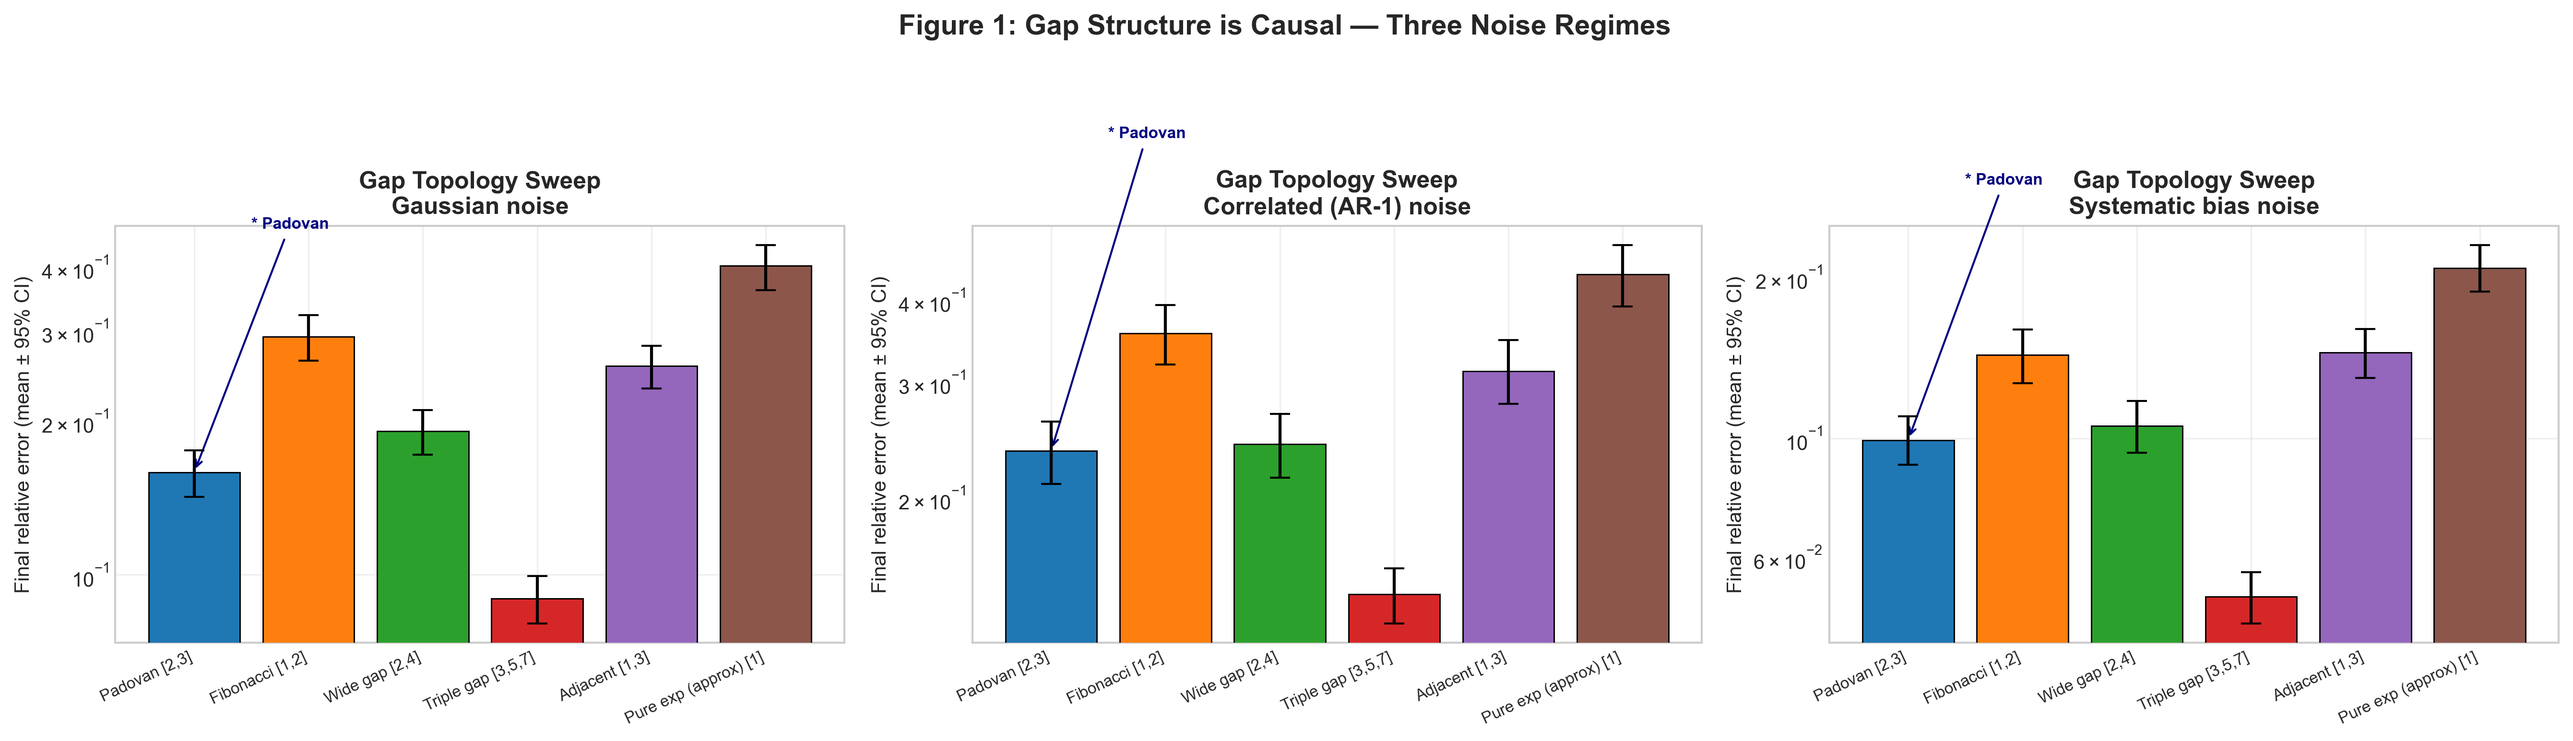
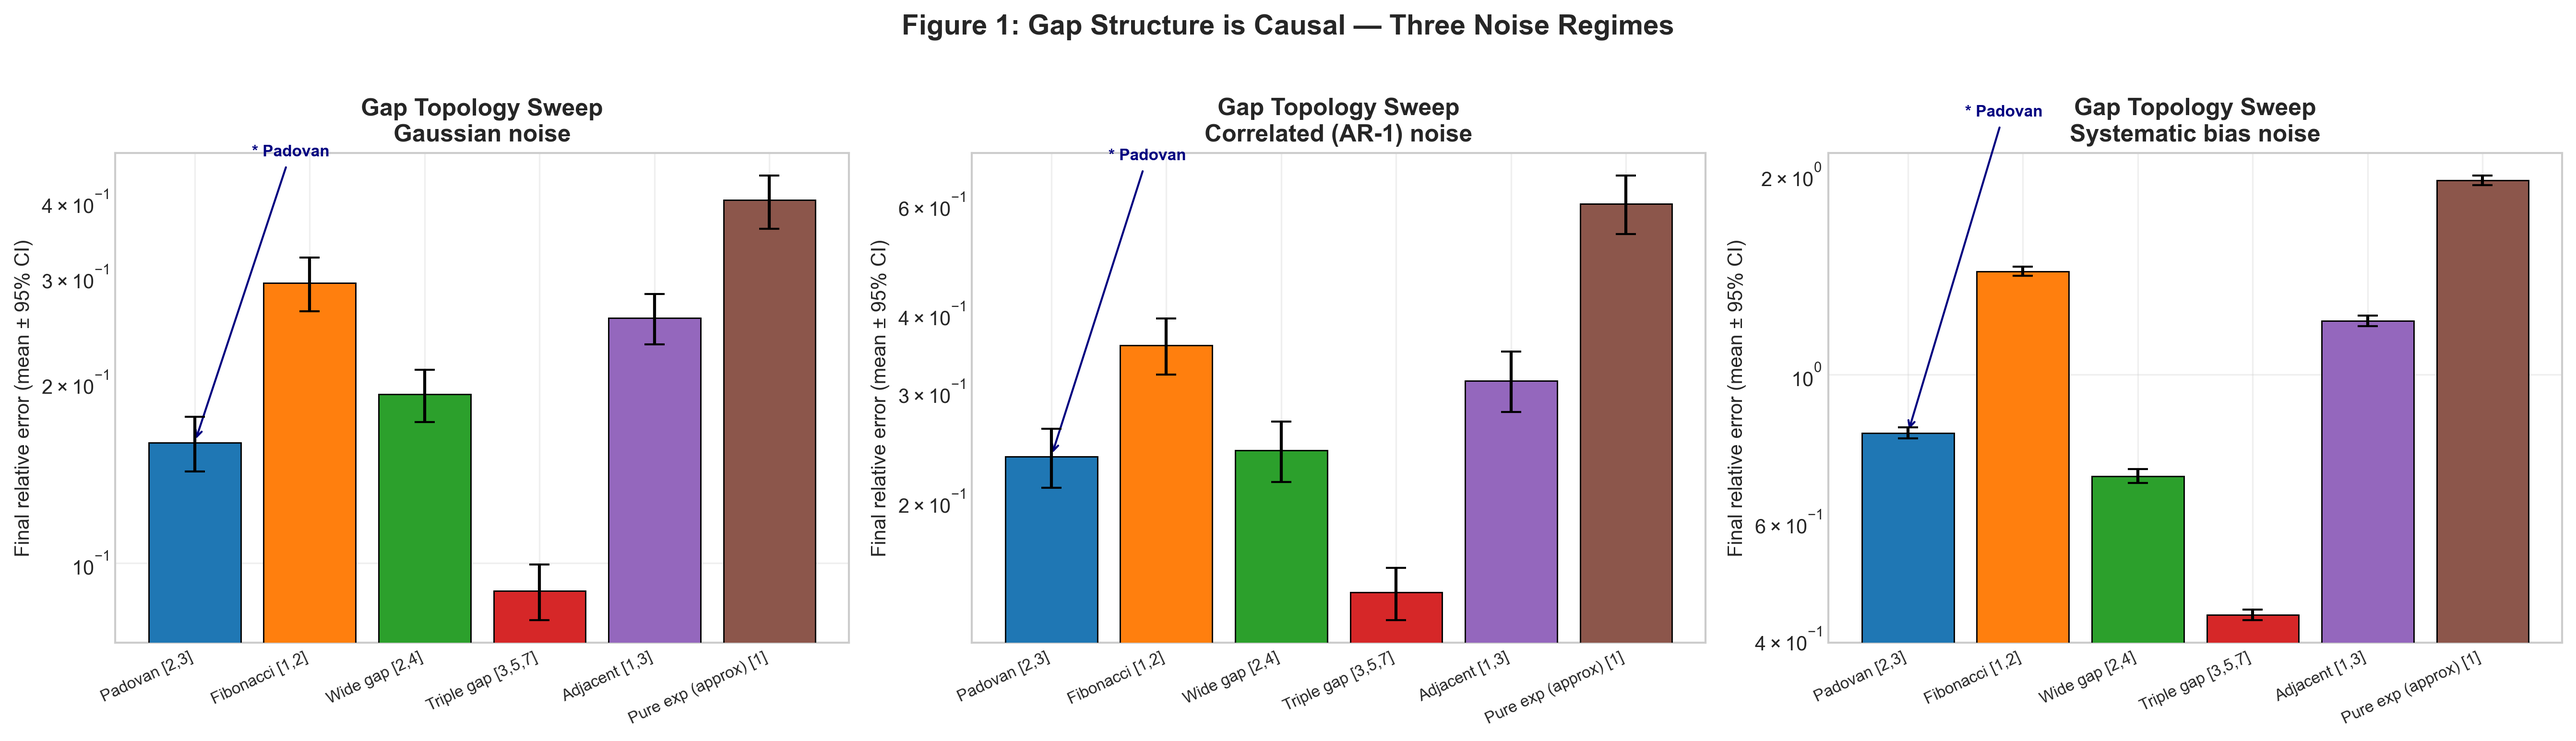
Refactor Padovan principle scripts and assets for enhanced modularity and precision
- Switched to `pathlib` for file-path handling, improving clarity and cross-platform compatibility.
- Enhanced systematic noise model with bias-proportional scaling and validation probes.
- Reorganized and expanded utilities: added multiplicative-chain baseline simulations and advanced two-parent crossover logic.
- Updated figures and JSON summaries with more accurate error analysis and causal insights.
- Refreshed `requirements.txt` with version-specific dependencies for reproducibility.
- Added DOI badges and links to README for improved traceability of Gaussian surface artifacts.

diff --git a/padovan-plastic-principle/padovan_plastic_principle_poc_02.py b/padovan-plastic-principle/padovan_plastic_principle_poc_02.py
@@ -19,13 +19,10 @@ Author: Fate + Claude (strengthened March 2026)
 
 import numpy as np
 import matplotlib.pyplot as plt
-import matplotlib.gridspec as gridspec
-import seaborn as sns
 from scipy import stats
 from datetime import datetime
-import os
-import textwrap
 import json
+from pathlib import Path
 
 # ─────────────────────────── CONFIG ───────────────────────────
 plt.style.use('seaborn-v0_8-whitegrid')
@@ -34,8 +31,9 @@ np.random.seed(42)
 N_STEPS   = 100
 NOISE_STD = 0.05
 N_TRIALS  = 200          # more trials → tighter CIs
-SAVE_DIR  = "plastic_whitepaper_assets_v2"
-os.makedirs(SAVE_DIR, exist_ok=True)
+SCRIPT_DIR = Path(__file__).resolve().parent
+SAVE_DIR  = SCRIPT_DIR / "plastic_whitepaper_assets_v2"
+SAVE_DIR.mkdir(parents=True, exist_ok=True)
 
 # Plastic constant ρ (real root of x³ − x − 1 = 0)
 _roots = np.roots([1, 0, -1, -1])
@@ -58,9 +56,11 @@ class NoiseModel:
         return float(rho * prev + np.random.normal(0, scale * np.sqrt(1 - rho**2)))
 
     @staticmethod
-    def systematic(scale, bias=0.02):
-        """Systematic bias — tool that consistently cuts short."""
-        return float(np.random.normal(bias * scale, scale * 0.5))
+    def systematic(ideal_value, noise_std, bias=0.02):
+        """Systematic bias relative to ideal step size, plus residual stochastic spread."""
+        mean = bias * ideal_value
+        sigma = 0.5 * noise_std * abs(ideal_value)
+        return float(np.random.normal(mean, sigma))
 
 
 def simulate_recurrence(recurrence_offsets, n_steps=N_STEPS, noise_std=NOISE_STD,
@@ -91,7 +91,7 @@ def simulate_recurrence(recurrence_offsets, n_steps=N_STEPS, noise_std=NOISE_STD
             noise = NoiseModel.correlated(scale, prev_noise)
             prev_noise = float(noise)
         elif noise_type == 'systematic':
-            noise = NoiseModel.systematic(scale)
+            noise = NoiseModel.systematic(ideal[i], noise_std=noise_std)
         else:
             raise ValueError(f"Unknown noise_type: {noise_type}")
 
@@ -107,6 +107,43 @@ def run_trials(recurrence_offsets, n_trials=N_TRIALS, noise_type='gaussian', **k
     finals = []
     for _ in range(n_trials):
         err = simulate_recurrence(recurrence_offsets, noise_type=noise_type, **kwargs)
+        finals.append(err[-1])
+    return np.array(finals)
+
+
+def simulate_exponential_chain(n_steps=N_STEPS, noise_std=NOISE_STD, rate=RHO,
+                               noise_type='gaussian', init=1.0):
+    """Multiplicative-chain baseline: x_n = rate * x_(n-1)."""
+    measured = np.zeros(n_steps)
+    ideal = np.zeros(n_steps)
+    measured[0] = ideal[0] = init
+
+    prev_noise = 0.0
+    for i in range(1, n_steps):
+        ideal[i] = ideal[i - 1] * rate
+        scale = noise_std * ideal[i]
+
+        if noise_type == 'gaussian':
+            noise = NoiseModel.gaussian(scale)
+        elif noise_type == 'correlated':
+            noise = NoiseModel.correlated(scale, prev_noise)
+            prev_noise = float(noise)
+        elif noise_type == 'systematic':
+            noise = NoiseModel.systematic(ideal[i], noise_std=noise_std)
+        else:
+            raise ValueError(f"Unknown noise_type: {noise_type}")
+
+        measured[i] = measured[i - 1] * rate + noise
+
+    safe_ideal = np.where(np.abs(ideal) > 1e-12, ideal, 1e-12)
+    return np.abs(measured / safe_ideal - 1)
+
+
+def run_trials_exponential_chain(n_trials=N_TRIALS, noise_type='gaussian', **kwargs):
+    """Run many trials for multiplicative-chain baseline; return final errors."""
+    finals = []
+    for _ in range(n_trials):
+        err = simulate_exponential_chain(noise_type=noise_type, **kwargs)
         finals.append(err[-1])
     return np.array(finals)
 
@@ -127,9 +164,8 @@ RECURRENCES = {
     "Wide gap [2,4]"        : [2, 4],   # larger gap
     "Triple gap [3,5,7]"    : [3, 5, 7],# multi-path
     "Adjacent [1,3]"        : [1, 3],   # partial gap
-    "Pure exp (approx) [1]" : [1],      # single-step (simulated as Fib[1,1])
+    "Pure exp (approx) [1]" : [1],      # handled as multiplicative chain
 }
-# For [1] we simulate as a simple ρ-multiplication chain separately
 COLORS = ['#1f77b4','#ff7f0e','#2ca02c','#d62728','#9467bd','#8c564b']
 
 # ─────────────────────────── FIGURE 1: CAUSAL ISOLATION ───────────────────────────
@@ -148,13 +184,14 @@ def figure_gap_topology():
     results_syst  = {}
 
     for name, offsets in RECURRENCES.items():
-        if offsets == [1]:   # pure exponential proxy
-            offsets_use = [1, 1]  # degenerate; will compound fastest
+        if offsets == [1]:
+            results_gauss[name] = run_trials_exponential_chain(noise_type='gaussian')
+            results_corr[name] = run_trials_exponential_chain(noise_type='correlated')
+            results_syst[name] = run_trials_exponential_chain(noise_type='systematic')
         else:
-            offsets_use = offsets
-        results_gauss[name] = run_trials(offsets_use, noise_type='gaussian')
-        results_corr[name]  = run_trials(offsets_use, noise_type='correlated')
-        results_syst[name]  = run_trials(offsets_use, noise_type='systematic')
+            results_gauss[name] = run_trials(offsets, noise_type='gaussian')
+            results_corr[name]  = run_trials(offsets, noise_type='correlated')
+            results_syst[name]  = run_trials(offsets, noise_type='systematic')
 
     for ax, results, title in zip(
             axes,
@@ -166,8 +203,8 @@ def figure_gap_topology():
         cis    = [bootstrap_ci(v) for v in results.values()]
         yerr   = np.array([[m - lo, hi - m] for m, (lo, hi) in zip(means, cis)]).T
 
-        bars = ax.bar(range(len(labels)), means, color=COLORS[:len(labels)],
-                      edgecolor='black', linewidth=0.7, zorder=3)
+        ax.bar(range(len(labels)), means, color=COLORS[:len(labels)],
+               edgecolor='black', linewidth=0.7, zorder=3)
         ax.errorbar(range(len(labels)), means, yerr=yerr,
                     fmt='none', color='black', capsize=5, linewidth=1.5, zorder=4)
         ax.set_xticks(range(len(labels)))
@@ -187,7 +224,7 @@ def figure_gap_topology():
     plt.suptitle('Figure 1: Gap Structure is Causal — Three Noise Regimes',
                  fontsize=14, fontweight='bold', y=1.02)
     plt.tight_layout()
-    plt.savefig(f'{SAVE_DIR}/figure_1_causal_isolation.png', dpi=300, bbox_inches='tight')
+    plt.savefig(SAVE_DIR / "figure_1_causal_isolation.png", dpi=300, bbox_inches='tight')
     plt.close()
     print("    ✓ Figure 1 saved")
 
@@ -220,10 +257,9 @@ def figure_noise_regimes():
 
         for (name, offsets), color in zip(RECURRENCES.items(), COLORS):
             if offsets == [1]:
-                offsets_use = [1, 1]
+                err = simulate_exponential_chain(noise_type=noise_type)
             else:
-                offsets_use = offsets
-            err = simulate_recurrence(offsets_use, noise_type=noise_type)
+                err = simulate_recurrence(offsets, noise_type=noise_type)
             ax.plot(err, label=name, color=color,
                     linewidth=2.5 if 'Padovan' in name else 1.2,
                     alpha=1.0 if 'Padovan' in name else 0.65,
@@ -239,7 +275,7 @@ def figure_noise_regimes():
     plt.suptitle('Figure 2: Padovan Advantage Persists Across All Noise Regimes',
                  fontsize=14, fontweight='bold', y=1.02)
     plt.tight_layout()
-    plt.savefig(f'{SAVE_DIR}/figure_2_noise_regimes.png', dpi=300, bbox_inches='tight')
+    plt.savefig(SAVE_DIR / "figure_2_noise_regimes.png", dpi=300, bbox_inches='tight')
     plt.close()
     print("    ✓ Figure 2 saved")
 
@@ -267,13 +303,8 @@ def figure_eigenvalue_anatomy():
         for i in range(d - 1):
             M[i + 1, i] = 1.0
         for k in offsets:
-            M[0, k - 1] = 1.0  # actually: M[0, d-k] depending on convention
-        # Use characteristic polynomial approach: coefficients of x^d - sum(x^(d-k))
-        poly = np.zeros(d + 1)
-        poly[0] = 1
-        for k in offsets:
-            poly[d - k] -= 1
-        eigs = np.roots(poly)
+            M[0, k - 1] = 1.0
+        eigs = np.linalg.eigvals(M)
         ax.scatter(eigs.real, eigs.imag, color=color, s=80,
                    label=name, zorder=3, edgecolors='black', linewidths=0.5)
 
@@ -298,11 +329,12 @@ def figure_eigenvalue_anatomy():
         if offsets == [1]:
             continue
         d = max(offsets)
-        poly = np.zeros(d + 1)
-        poly[0] = 1
+        M = np.zeros((d, d))
+        for i in range(d - 1):
+            M[i + 1, i] = 1.0
         for k in offsets:
-            poly[d - k] -= 1
-        eigs = np.roots(poly)
+            M[0, k - 1] = 1.0
+        eigs = np.linalg.eigvals(M)
         # Damping = max |λ| among non-dominant eigenvalues
         mods = np.sort(np.abs(eigs))
         damping = mods[-2] if len(mods) >= 2 else mods[-1]
@@ -341,7 +373,7 @@ def figure_eigenvalue_anatomy():
     plt.suptitle('Figure 3: Eigenvalue Damping → Error Suppression (Causal Mechanism)',
                  fontsize=14, fontweight='bold', y=1.02)
     plt.tight_layout()
-    plt.savefig(f'{SAVE_DIR}/figure_3_eigenvalue_anatomy.png', dpi=300, bbox_inches='tight')
+    plt.savefig(SAVE_DIR / "figure_3_eigenvalue_anatomy.png", dpi=300, bbox_inches='tight')
     plt.close()
     print("    ✓ Figure 3 saved")
 
@@ -363,12 +395,11 @@ def figure_architectural_simulation():
         d = max(recurrence_offsets)
         for i in range(d):
             ideal[i] = measured[i] = 1.0
-        prev_noise = 0.0
         for i in range(d, n_elements):
             ideal[i] = sum(ideal[i - k] for k in recurrence_offsets)
             scale = noise_std * ideal[i]
             if noise_type == 'systematic':
-                noise = NoiseModel.systematic(scale)
+                noise = NoiseModel.systematic(ideal[i], noise_std=noise_std)
             else:
                 noise = NoiseModel.gaussian(scale)
             measured[i] = sum(measured[i - k] for k in recurrence_offsets) + noise
@@ -441,7 +472,7 @@ def figure_architectural_simulation():
         f"KS p={p:.4f}, Cohen's d={cohens_d:.3f} (systematic construction noise)",
         fontsize=13, fontweight='bold')
     plt.tight_layout()
-    plt.savefig(f'{SAVE_DIR}/figure_4_architectural_simulation.png', dpi=300, bbox_inches='tight')
+    plt.savefig(SAVE_DIR / "figure_4_architectural_simulation.png", dpi=300, bbox_inches='tight')
     plt.close()
     print("    ✓ Figure 4 saved")
 
@@ -485,14 +516,27 @@ def demo_applications():
 
     def giga_crossover(parent_a, parent_b, n_generations=20, mutation_rate=0.05):
         """
-        Instead of alternating genes [A,B,A,B,...], use Padovan gap structure:
-        child[n] = child[n-2] * α + child[n-3] * (1-α) + mutation
-        where α is drawn from parents' fitness ratio.
+        Two-parent crossover with Padovan-gap indexing.
+        Child genes are blended from both parents at (n-2, n-3) style offsets
+        and lightly regularized by prior child history.
         """
-        child = list(parent_a[:3])
-        for i in range(3, n_generations):
+        if len(parent_a) == 0 or len(parent_b) == 0:
+            raise ValueError("Both parents must contain at least one gene")
+
+        seed_count = min(3, n_generations)
+        child = []
+        for i in range(seed_count):
+            a = parent_a[i % len(parent_a)]
+            b = parent_b[(i + 1) % len(parent_b)]
+            child.append(float(np.clip(0.5 * a + 0.5 * b, 0, 1)))
+
+        for i in range(seed_count, n_generations):
             alpha = np.random.beta(2, 2)  # fitness-weighted blend
-            gene = alpha * child[i-2] + (1-alpha) * child[i-3]
+            idx_a = (i - 2) % len(parent_a)
+            idx_b = (i - 3) % len(parent_b)
+            parent_mix = alpha * parent_a[idx_a] + (1 - alpha) * parent_b[idx_b]
+            child_mix = 0.5 * (child[i - 2] + child[i - 3])
+            gene = 0.5 * parent_mix + 0.5 * child_mix
             if np.random.rand() < mutation_rate:
                 gene += np.random.normal(0, 0.1)
             child.append(float(np.clip(gene, 0, 1)))
@@ -505,6 +549,34 @@ def demo_applications():
     print(f"   Parent B (first 5): {[f'{g:.3f}' for g in parent_b]}")
     print(f"   Child (first 8):    {[f'{g:.3f}' for g in child[:8]]}")
     print(f"   Child variance:     {np.var(child):.4f}")
+
+    # Deterministic probes to validate review-critical behavior.
+    print("\n   Validation probes")
+    rng_state = np.random.get_state()
+    np.random.seed(12345)
+    ideal_probe = 100.0
+    noise_std_probe = 0.05
+    bias_probe = 0.02
+    systematic_samples = np.array([
+        NoiseModel.systematic(ideal_probe, noise_std=noise_std_probe, bias=bias_probe)
+        for _ in range(20000)
+    ])
+    observed_mean = float(np.mean(systematic_samples))
+    expected_mean = bias_probe * ideal_probe
+    np.random.set_state(rng_state)
+    print(f"   Systematic mean probe: observed={observed_mean:.3f}, expected={expected_mean:.3f}")
+    if abs(observed_mean - expected_mean) > 0.2:
+        raise RuntimeError("Systematic bias probe failed: mean is not scaled to ideal step size")
+
+    rng_state = np.random.get_state()
+    np.random.seed(7)
+    probe_parent_a = [0.0] * 5
+    probe_parent_b = [1.0] * 5
+    probe_child = giga_crossover(probe_parent_a, probe_parent_b, n_generations=10, mutation_rate=0.0)
+    np.random.set_state(rng_state)
+    print(f"   GIGA two-parent probe child[:6]: {[round(v, 3) for v in probe_child[:6]]}")
+    if not (max(probe_child) > 0.2 and min(probe_child) < 0.8):
+        raise RuntimeError("GIGA probe failed: child does not reflect two-parent inheritance")
 
     # ── 3. PNSF: Padovan Noise-Shaping Filter ──
     print("\n3. PNSF — Padovan Noise-Shaping Filter")
@@ -691,7 +763,7 @@ def main():
         'noise_std': NOISE_STD,
         'application_results': app_results,
     }
-    with open(f'{SAVE_DIR}/summary.json', 'w') as f:
+    with open(SAVE_DIR / "summary.json", 'w', encoding='utf-8') as f:
         json.dump(summary, f, indent=2)
 
     print(f"\n{'='*60}")

diff --git a/padovan-plastic-principle/padovan_plastic_principle_poc_01.py b/padovan-plastic-principle/padovan_plastic_principle_poc_01.py
@@ -22,8 +22,8 @@ import numpy as np
 import matplotlib.pyplot as plt
 import seaborn as sns
 from datetime import datetime
-import os
 import textwrap
+from pathlib import Path
 
 # ========================== CONFIGURATION ==========================
 plt.style.use('seaborn-v0_8-whitegrid')
@@ -32,8 +32,9 @@ np.random.seed(42)
 N_STEPS = 100
 NOISE_STD = 0.05
 NUM_TRIALS = 50
-SAVE_DIR = "plastic_whitepaper_assets"
-os.makedirs(SAVE_DIR, exist_ok=True)
+SCRIPT_DIR = Path(__file__).resolve().parent
+SAVE_DIR = SCRIPT_DIR / "plastic_whitepaper_assets"
+SAVE_DIR.mkdir(parents=True, exist_ok=True)
 
 # Plastic constant ρ (real root of x^3 - x - 1 = 0)
 _roots = np.roots([1, 0, -1, -1])
@@ -126,7 +127,7 @@ def generate_main_plots():
     axs[1].grid(True, alpha=0.3)
 
     plt.tight_layout()
-    plt.savefig(f'{SAVE_DIR}/figure_1_error_analysis.png', dpi=300, bbox_inches='tight')
+    plt.savefig(SAVE_DIR / "figure_1_error_analysis.png", dpi=300, bbox_inches='tight')
     plt.close()
     print("   ✓ Figure 1 saved (exact reproduction of your uploaded image)")
 
@@ -143,11 +144,11 @@ def generate_main_plots():
     ax.set_yscale('log')
     ax.legend()
     ax.grid(True, alpha=0.3)
-    plt.savefig(f'{SAVE_DIR}/figure_2_eigenmodes.png', dpi=300, bbox_inches='tight')
+    plt.savefig(SAVE_DIR / "figure_2_eigenmodes.png", dpi=300, bbox_inches='tight')
     plt.close()
     print("   ✓ Figure 2 saved (eigenvalue damping)")
 
-    print(f"All plots saved to ./{SAVE_DIR}/")
+    print(f"All plots saved to {SAVE_DIR}/")
 
 # ======================= WHITE PAPER CONTENT =======================
 def print_whitepaper():
@@ -268,9 +269,9 @@ The gap is the feature. Split-path propagation + phased cancellation = built-in 
 
 **This white paper is itself executable proof.**
 """
-    with open('plastic_number_whitepaper.md', 'w', encoding='utf-8') as f:
+    with open(SCRIPT_DIR / "plastic_number_whitepaper.md", 'w', encoding='utf-8') as f:
         f.write(md_content)
-    print("   ✓ whitepaper.md written (ready for pandoc → PDF)")
+    print("   ✓ plastic_number_whitepaper.md written (ready for pandoc → PDF)")
 
 # ======================= MAIN EXECUTION =======================
 if __name__ == "__main__":

diff --git a/README.md b/README.md
@@ -2,6 +2,10 @@
 
 This repository contains multiple independent research projects. The table below gives a quick map of each project folder and its subfolders.
 
+## DOI Badges (Gaussian Surface Geometry)
+[![Version DOI](https://zenodo.org/badge/DOI/10.5281/zenodo.18847306.svg)](https://doi.org/10.5281/zenodo.18847306)
+[![Concept DOI](https://zenodo.org/badge/DOI/10.5281/zenodo.18847305.svg)](https://doi.org/10.5281/zenodo.18847305)
+
 | Subject | Summary |
 |---|---|
 | [3tau Modal-Locking Threshold](./3tau-modal-locking/README.md) | Wave-physics whitepaper introducing the exact `t = 3tau` transition from traveling-wave behavior to standing-wave modal coherence in finite 1D systems, with hybrid simulation speedups. |
@@ -9,7 +13,7 @@ This repository contains multiple independent research projects. The table below
 | [Dynamical Symmetry Breaking in Legendre Duality](./dynamical_symmetry_breaking/README.md) | Dual executable whitepapers examining how finite-rate driving can break thermodynamic equivalence between Legendre-conjugate representations, including conceptual and mechanistic chemotaxis models. |
 | [EM-GW Priming Window](./em-gw-priming-window/README.md) | Ionosphere-troposphere coupling project proposing a conductivity-memory priming window where prior solar EM forcing multiplicatively gates later gravity-wave responses. |
 | [Fragility Index (FI)](./fragility_index/README.md) | Orbital-dynamics framework defining a twist-fragility metric for when small perturbations shatter KAM-structure stability and drive chaos. |
-| [Gaussian Surface Geometry](./gaussian-hill-surface/README.md) | Differential-geometry exploration of Gaussian surfaces, including the 1-sigma curvature transition interpretation and visuals. |
+| [Gaussian Surface Geometry](./gaussian-hill-surface/README.md) | Differential-geometry exploration of Gaussian surfaces, including the 1-sigma curvature transition interpretation and visuals. Version DOI: https://doi.org/10.5281/zenodo.18847306. Concept DOI: https://doi.org/10.5281/zenodo.18847305. |
 | [Palindromic Square Cliff (Repunits)](./palindromic-square/README.md) | Number-theory project showing a sharp base-dependent transition where repunit squares lose palindromic structure at `n = b - 1` due to central-digit carry overflow. |
 | [PhaseWall PoC App](./phasewall-poc-app/README.md) | Local-first Streamlit proof-of-concept app testing the Gaussian 1-sigma phase-wall insight with trajectory and optimizer benchmarks plus exportable evidence artifacts. |
 | [PD-L1 Kinetics Research](./pd-l1-kinetics/README.md) | Oncology research project on dynamic PD-L1 induction velocity as a decision signal after immune priming in mTNBC. |
